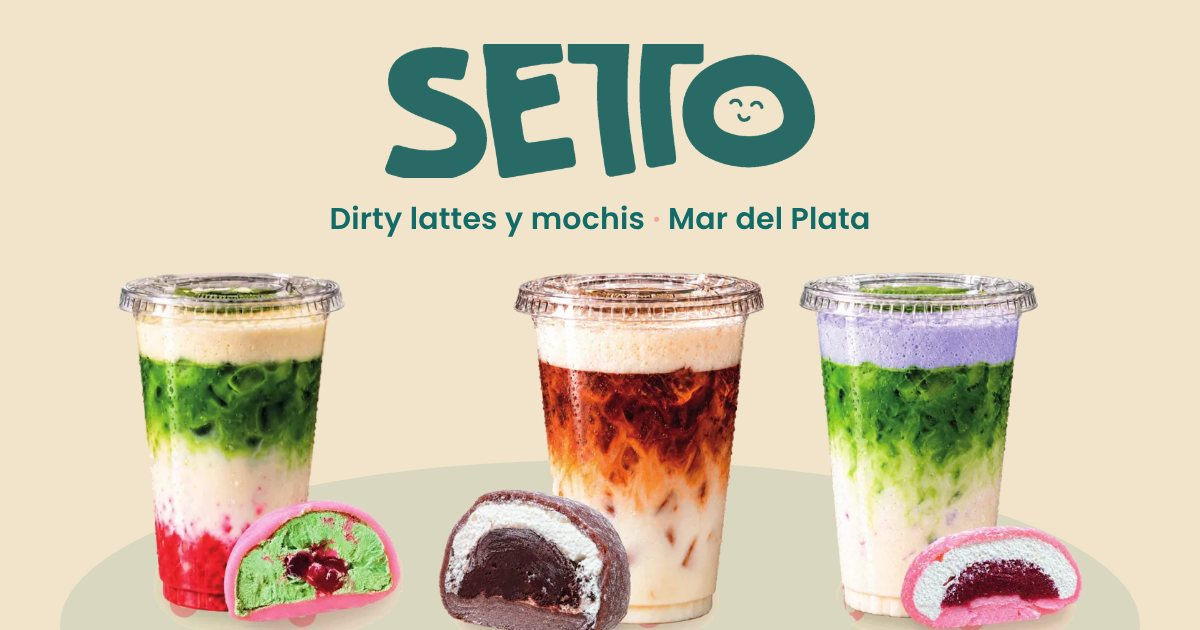
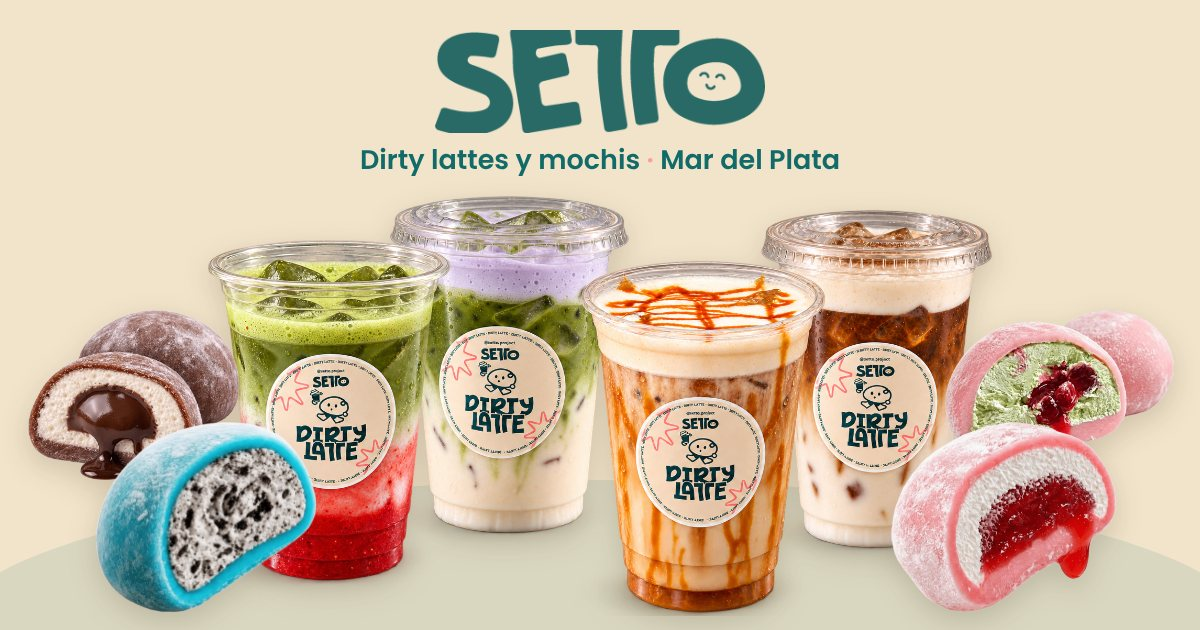
Vista previa: imagen con los 4 dirtys y 4 mochis
Claude-Session: https://claude.ai/code/session_01Lx3iUWWjWB9C7Pb6rsM8Fe

diff --git a/index.html b/index.html
@@ -16,7 +16,7 @@
 <meta property="og:image:type" content="image/jpeg">
 <meta property="og:image:width" content="1200">
 <meta property="og:image:height" content="630">
-<meta property="og:image:alt" content="Logo de Setto y tres sets: dirty lattes en vaso transparente, cada uno con un mochi cortado al medio">
+<meta property="og:image:alt" content="Logo de Setto, cuatro dirty lattes en vaso transparente con sticker de Setto y cuatro mochis cortados al medio">
 <meta name="twitter:card" content="summary_large_image">
 <meta name="twitter:title" content="Setto · Dirty lattes y mochis en Mar del Plata">
 <meta name="twitter:description" content="Dirty lattes fríos, mochis rellenos y sets. Take away y delivery en Mar del Plata.">
